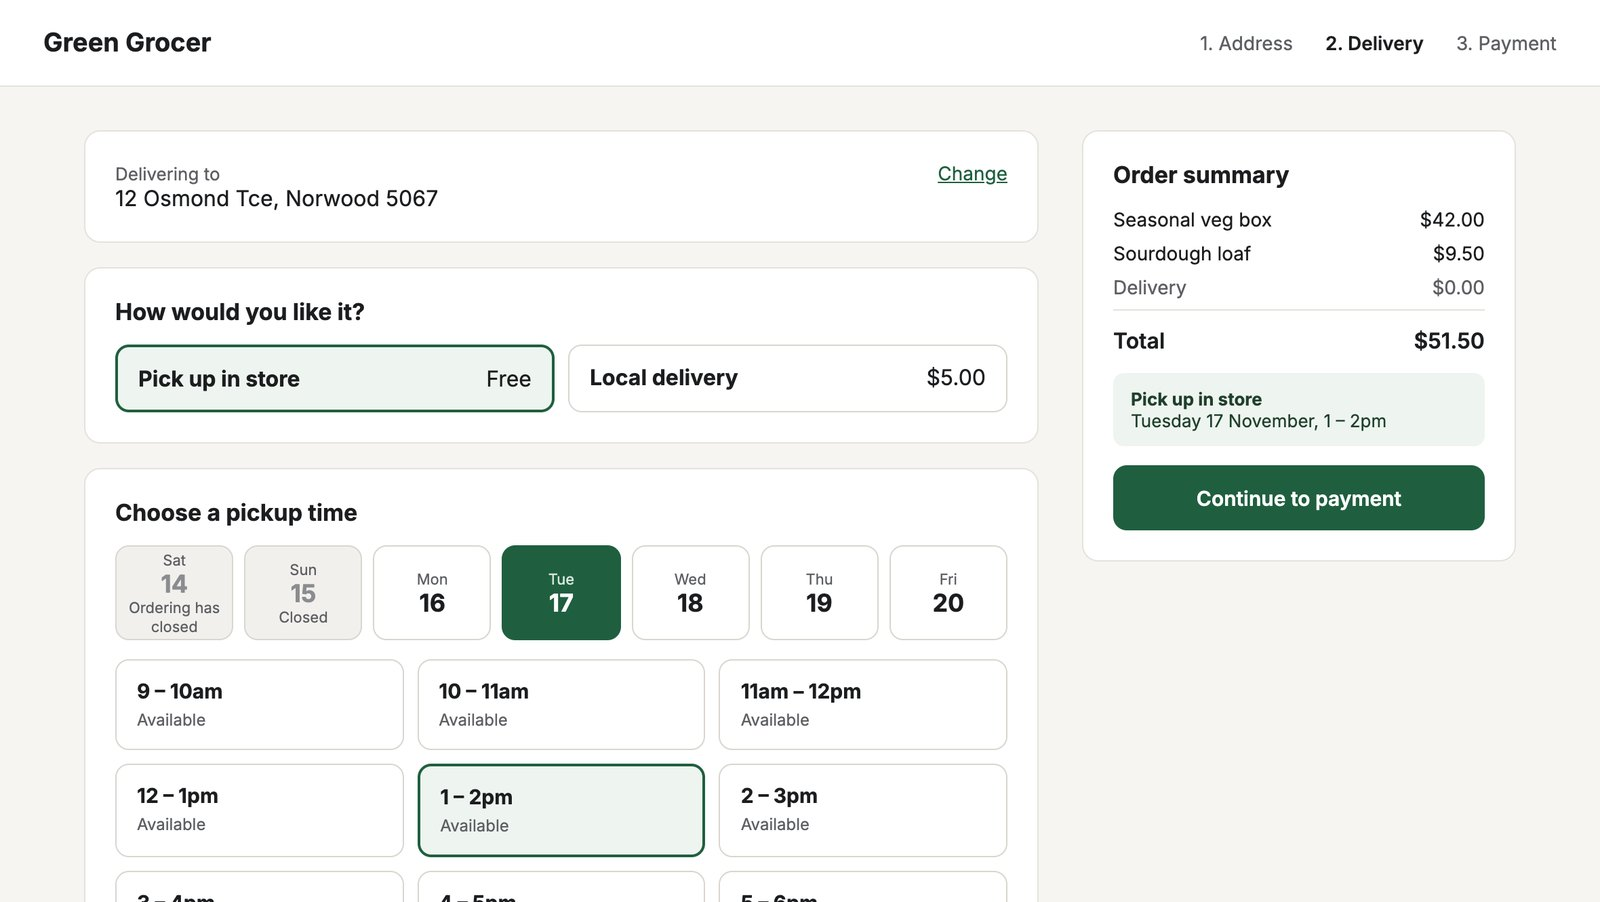
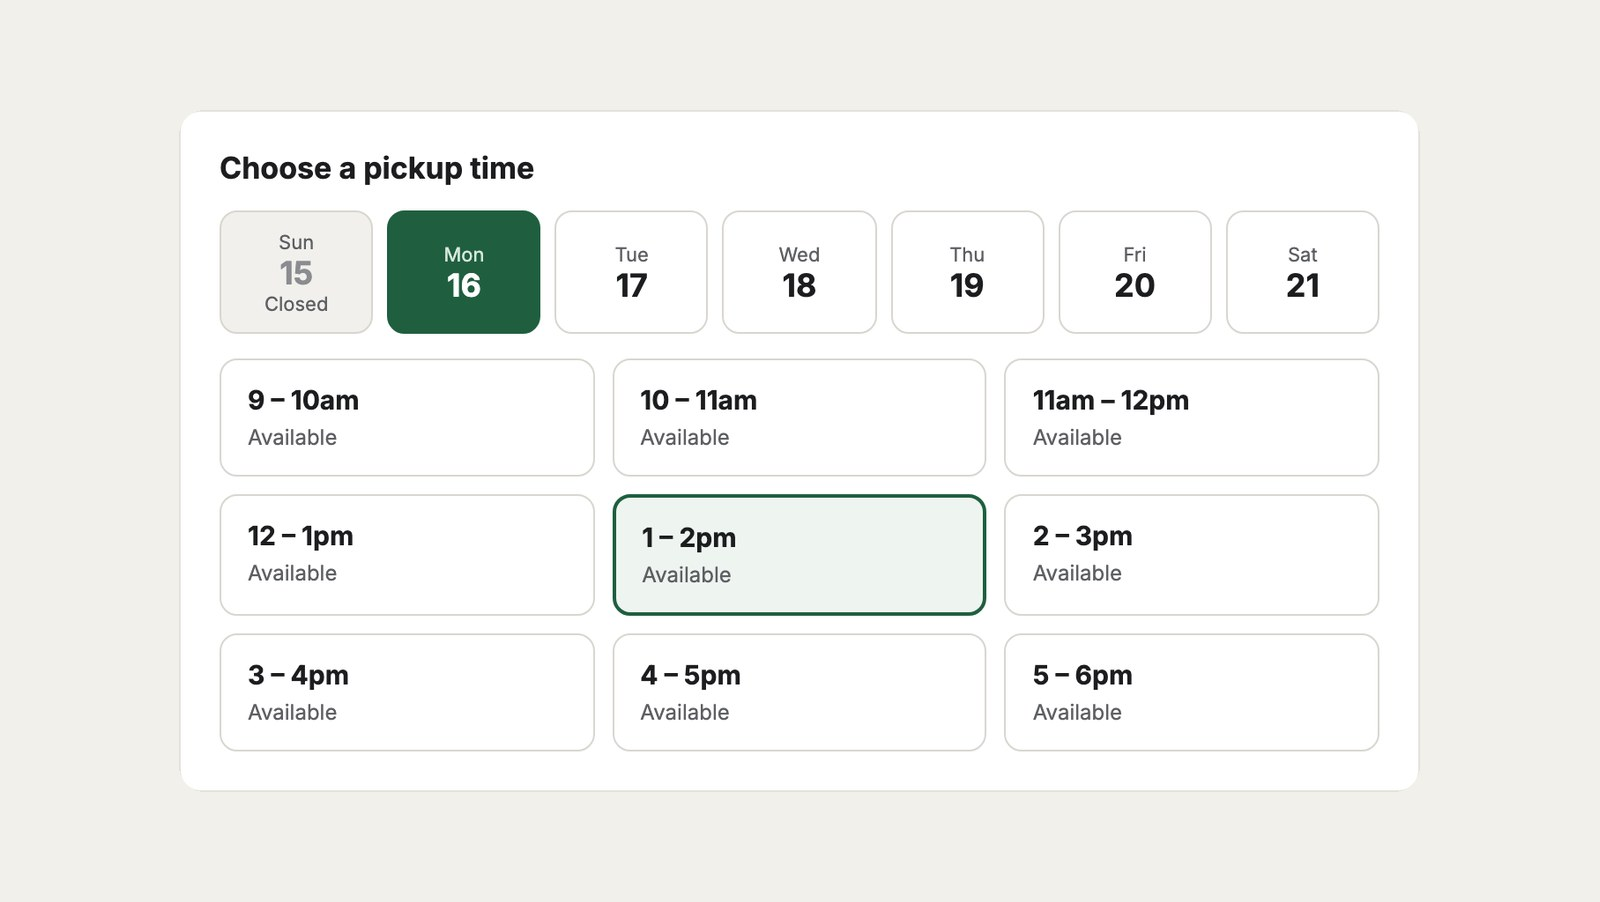
Docs: sharper example images, slot notes on their own line in the JavaScript picker

diff --git a/docs/src/.vitepress/theme/DsHome.vue b/docs/src/.vitepress/theme/DsHome.vue
@@ -167,8 +167,8 @@ const pickerCmd = `{% for day in cart.deliverySlotDays %}
 
 const examples = [
   { href: '/examples/zone-fees', img: '/examples/zone-fees.jpg', name: 'Zone days and fees', line: 'The Hills on Thursdays and Saturdays, for $4 more.', alt: 'Slots for an Adelaide Hills address: Thursday chosen, other weekdays not in your area, every slot +$4' },
-  { href: '/examples/click-and-collect', img: '/examples/click-and-collect.jpg', name: 'Click and collect', line: 'Hourly pickup times, the same day, ready in an hour.', alt: 'Pick up in store chosen, with hourly pickup times from 9am to 6pm' },
-  { href: '/examples/javascript-picker', img: '/examples/javascript-picker.jpg', name: 'Slot picker in JavaScript', line: 'Loads and holds slots without a page load.', alt: 'A row of days and six time buttons, 10am – 12pm chosen with 2 left' },
+  { href: '/examples/click-and-collect', img: '/examples/click-and-collect.jpg', name: 'Click and collect', line: 'Hourly pickup times, the same day, ready in an hour.', alt: 'Choose a pickup time: hourly pickup times from 9am to 6pm, with 1 – 2pm chosen' },
+  { href: '/examples/javascript-picker', img: '/examples/javascript-picker.jpg', name: 'Slot picker in JavaScript', line: 'Loads and holds slots without a page load.', alt: 'A row of days and six two-hour slots, each marked Available, with 10am – 12pm chosen' },
 ]
 </script>
 

diff --git a/docs/src/examples/javascript-picker.md b/docs/src/examples/javascript-picker.md
@@ -2,7 +2,7 @@
 
 A picker that loads slots and saves the chosen one without reloading the page, using the [JSON actions](/guides/javascript). Use it in a single-page checkout, or alongside a headless front end on the same domain.
 
-![Days from Sun 15 (greyed out) to Sat 21, with Tue 17 selected and its six slots below; 10am – 12pm is chosen and shows 2 left](/examples/javascript-picker.jpg)
+![A row of days from Mon 16 to Sun 22 (greyed out), with Mon 16 selected and its six two-hour slots below, each marked Available; 10am – 12pm is chosen and confirmed underneath](/examples/javascript-picker.jpg)
 
 - The days and slots come from `actions/delivery-slots/slots/days`, for the cart’s shipping method.
 - Clicking a time holds it for the cart straight away. If it has just filled up, the picker says so and shows the latest slots.
@@ -50,7 +50,11 @@ The cart needs a shipping method with a [schedule](/getting-started/schedules), 
     timesEl.replaceChildren(...(day ? day.slots : []).map((slot) => {
       const b = document.createElement('button');
       b.type = 'button';
-      b.textContent = slot.label + (slot.full ? ' · Full' : slot.left <= 2 ? ` · ${slot.left} left` : '');
+      const time = document.createElement('strong');
+      time.textContent = slot.label;
+      const note = document.createElement('small');
+      note.textContent = slot.full ? 'Full' : slot.left <= 2 ? `${slot.left} left` : 'Available';
+      b.append(time, note);
       b.disabled = slot.full;
       b.setAttribute('aria-pressed', slot.value === chosen);
       b.onclick = () => choose(slot.value);
@@ -103,6 +107,8 @@ body { font-family: system-ui, sans-serif; max-width: 640px; margin: 40px auto; 
 .slot-days button:disabled { background: #f1f0ec; color: #8a8c90; cursor: not-allowed; }
 .slot-times { display: grid; grid-template-columns: repeat(auto-fill, minmax(140px, 1fr)); gap: 8px; margin-top: 12px; }
 .slot-times button { text-align: left; padding: 10px 12px; border: 1px solid #d8d6cf; border-radius: 10px; background: #fff; font: inherit; cursor: pointer; }
+.slot-times button strong { display: block; font-weight: 600; }
+.slot-times button small { display: block; margin-top: 2px; font-size: 0.8em; color: #6b6d72; }
 .slot-times button[aria-pressed="true"] { border: 2px solid #1f5f3f; background: #eef4ef; }
 .slot-times button:disabled { background: #f1f0ec; color: #8a8c90; cursor: not-allowed; }
 .slot-status { min-height: 1.5em; margin-top: 12px; }

diff --git a/docs/src/examples/zone-fees.md b/docs/src/examples/zone-fees.md
@@ -2,7 +2,7 @@
 
 Deliver to the inner suburbs every weekday, the city three days a week, and the Hills on Thursdays and Saturdays for $4 more.
 
-![Slots for 15 Main St, Hahndorf: Thursday 19 selected, Monday to Wednesday and Friday say Not in your area, and every slot shows +$4.00; the order summary shows $19.00 delivery](/examples/zone-fees.jpg)
+![Choose a delivery time for an Adelaide Hills address: Thursday 19 selected, Monday to Wednesday and Friday say Not in your area, Sunday is closed, and every slot shows +$4.00; 10am – 12pm is chosen](/examples/zone-fees.jpg)
 
 ## 1. Draw the zones
 

diff --git a/docs/src/examples/click-and-collect.md b/docs/src/examples/click-and-collect.md
@@ -2,7 +2,7 @@
 
 Hourly pickup times, from 9am to 6pm, bookable until an hour before. Customers can collect the same day.
 
-![Pick up in store chosen, with Tuesday 17 selected and hourly pickup times from 9 – 10am to 5 – 6pm; 1 – 2pm is chosen and shown in the order summary](/examples/click-and-collect.jpg)
+![Choose a pickup time: Sunday 15 closed, Monday 16 selected, and hourly pickup times from 9 – 10am to 5 – 6pm; 1 – 2pm is chosen](/examples/click-and-collect.jpg)
 
 ## 1. The shipping method
 
